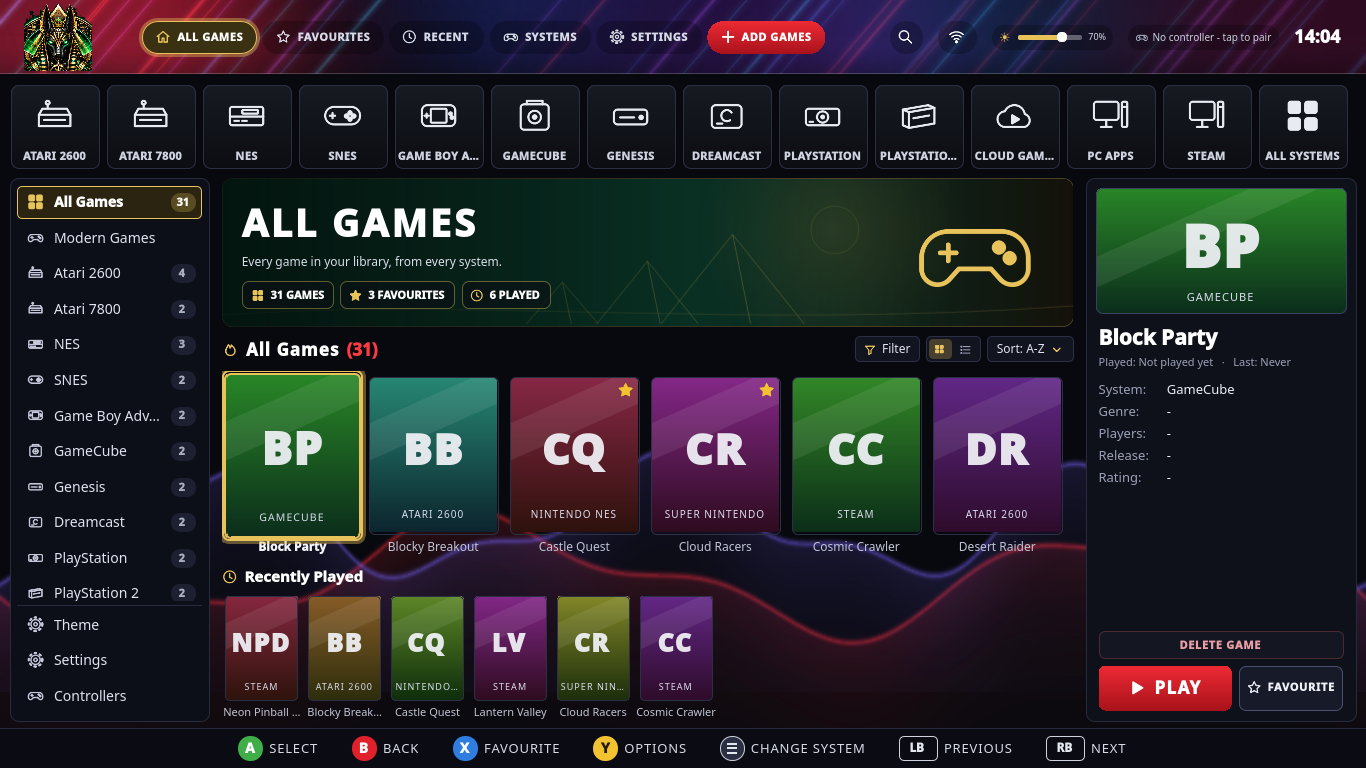
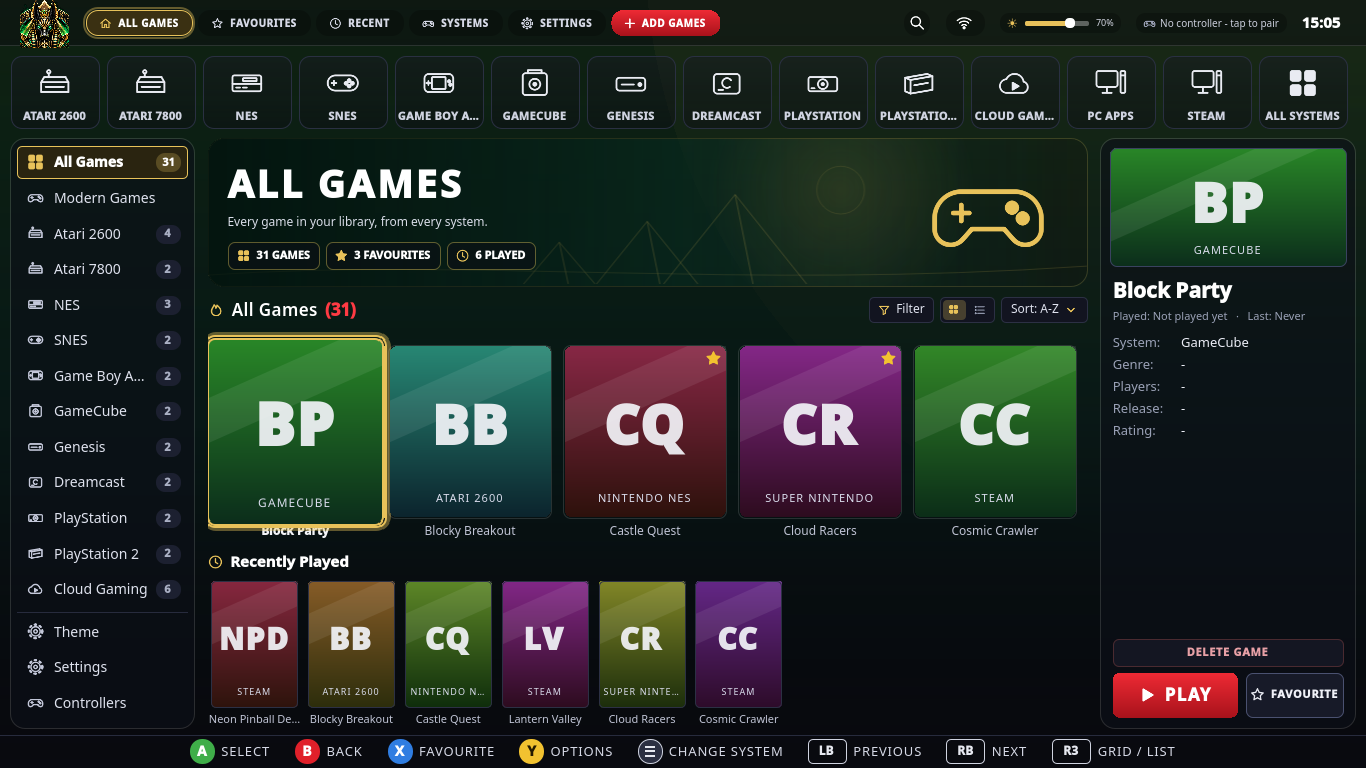
0.6.1: modern home (blurred art backdrop, glass panels, slim top bar, eased focus), Reduce effects (auto on weak GPUs), R3 grid/list, small dismissable pad reminder

diff --git a/tests/test_modern_061.py b/tests/test_modern_061.py
@@ -1,0 +1,77 @@
+"""0.6.1: Reduce effects (auto on weak chips), grid / list by pad (R3 = V), backdrop and glass parts load."""
+from atarilauncher import gpuinfo, gamepad_helper, backend as be, config
+from PySide6.QtCore import Qt
+from tests.test_ui_keys import app, Ui, pump  # noqa: F401  (the shared Qt app fixture)
+
+
+def test_weak_gpu_names():
+    for r in ["llvmpipe (LLVM 15.0.7, 256 bits)", "Mesa Intel(R) HD Graphics 5500 (BDW GT2)", "Mesa Intel(R) HD Graphics (BYT)",
+              "Mesa Intel(R) HD Graphics 505 (APL 3x6)", "SVGA3D; build: RELEASE", "virgl"]:
+        assert gpuinfo.is_weak(r), r
+    for r in ["Mesa Intel(R) UHD Graphics 620 (KBL GT2)", "Mesa Intel(R) HD Graphics 620 (KBL GT2)", "AMD Radeon Vega 8 Graphics",
+              "NVIDIA GeForce GTX 1050/PCIe/SSE2", "Mesa Intel(R) Xe Graphics (TGL GT2)", ""]:
+        assert not gpuinfo.is_weak(r), r
+
+
+def test_env_override(monkeypatch):
+    monkeypatch.setenv("CODEAQUE_WEAK_GPU", "1")
+    assert gpuinfo.weak_gpu()
+    monkeypatch.setenv("CODEAQUE_WEAK_GPU", "0")
+    assert not gpuinfo.weak_gpu()
+
+
+def test_r3_is_grid_list():
+    assert gamepad_helper.BUTTON_MAP["rightstick"] == "view"
+    assert be.ACTION_KEYS["view"] == Qt.Key_V
+
+
+def test_config_round_trip(tmp_path):
+    p = tmp_path / "config.toml"
+    c = config.load_config(p)
+    assert c.reduce_effects == "auto" and c.pad_reminder is True
+    c.reduce_effects = "on"; c.pad_reminder = False
+    config.save_config(c, p)
+    c2 = config.load_config(p)
+    assert c2.reduce_effects == "on" and c2.pad_reminder is False
+
+
+def test_effects_setting_cycles_and_v_toggles_list(app, tmp_path, monkeypatch):
+    monkeypatch.setenv("CODEAQUE_WEAK_GPU", "1")
+    ui = Ui(app, tmp_path, monkeypatch, config_exists=True)
+    try:
+        b = ui.backend
+        assert b.cfg.reduce_effects == "auto" and b.effects is False        # weak chip: effects off by themselves
+        row = next(r for r in b.setupRows() if r["kind"] == "effects")
+        assert row["value"].startswith("AUTO")
+        b.cycleEffects(); assert b.cfg.reduce_effects == "on" and b.effects is False
+        b.cycleEffects(); assert b.cfg.reduce_effects == "off" and b.effects is True
+        assert ui.win.property("listMode") is False
+        ui.key(Qt.Key_V, 100)
+        assert ui.win.property("listMode") is True
+        ui.key(Qt.Key_V, 100)
+        assert ui.win.property("listMode") is False
+    finally:
+        ui.close()
+
+
+def test_backdrop_cross_fades_to_the_game_art(app, tmp_path, monkeypatch):
+    from PySide6.QtGui import QImage, QColor
+    from PySide6.QtQuick import QQuickItem
+    from PySide6.QtCore import QUrl
+    img = QImage(320, 180, QImage.Format_RGB32); img.fill(QColor("#3366aa"))
+    a = tmp_path / "a.png"; img.save(str(a))
+    img.fill(QColor("#aa3333")); b = tmp_path / "b.png"; img.save(str(b))
+    ui = Ui(app, tmp_path, monkeypatch, config_exists=True)
+    try:
+        bd = ui.win.findChild(QQuickItem, "homeBackdrop")
+        assert bd is not None and bd.property("visible")
+        ia, ib = (ui.win.findChild(QQuickItem, n) for n in ("backdropA", "backdropB"))
+        bd.setProperty("source", QUrl.fromLocalFile(str(a)).toString()); pump(app, 900)
+        shown = [i for i in (ia, ib) if i.property("opacity") > 0.99]
+        assert len(shown) == 1 and shown[0].property("progress") == 1.0
+        bd.setProperty("source", QUrl.fromLocalFile(str(b)).toString()); pump(app, 900)
+        shown2 = [i for i in (ia, ib) if i.property("opacity") > 0.99]
+        assert len(shown2) == 1 and shown2[0] is not shown[0]
+        assert not ui.warnings, ui.warnings
+    finally:
+        ui.close()

diff --git a/tests/test_ui_keys.py b/tests/test_ui_keys.py
@@ -242,30 +242,39 @@ def test_mouse_click_rows_and_buttons_everywhere(app, tmp_path, monkeypatch):
         ui.close()
 
 
-def test_home_banner_remove_and_repair(app, tmp_path, monkeypatch):
+def test_home_pad_toast_small_dismissable_and_repair_in_controllers(app, tmp_path, monkeypatch):
+    """0.6.1: a slim note only for a pad that WAS connected and dropped; X / keyboard / mouse hide it; Settings toggle;
+    Remove and re-pair stays in Settings > Controllers."""
     from PySide6.QtQuick import QQuickItem
     ui = Ui(app, tmp_path, monkeypatch, config_exists=True)
     try:
         called = []
         monkeypatch.setattr(ui.backend, "_bt_activate", lambda rid: called.append(rid) or "refresh")
-        ui.backend._on_pads_waiting([{"mac": "AA:BB:CC:DD:EE:01", "name": "Wireless Controller"}])
-        pump(app, 200)
         ui.win.resize(1366, 768)
-        pump(app, 300)
+        pad = {"mac": "AA:BB:CC:DD:EE:01", "name": "Wireless Controller"}
+        ui.backend._on_pads_waiting([pad])           # paired but never seen connected: no note
+        pump(app, 200)
         ban = ui.win.findChild(QQuickItem, "padWaitBanner")
-        import os
-        if os.environ.get("SHOT"):
-            ui.win.grabWindow().save(os.environ["SHOT"])
-        assert ban.property("x") >= 0 and ban.property("x") + ban.property("width") <= 1366
-        assert ui.mode == "library" and ban is not None and ban.property("visible")
+        assert ban is not None and not ban.property("visible")
+        ui.backend._on_pads_waiting([])
+        ui.backend._pads_was_connected.add(pad["mac"])  # it was connected ... and drops
+        ui.backend._on_pads_waiting([pad])
+        pump(app, 300)
+        assert ui.mode == "library" and ban.property("visible")
+        assert ban.property("height") <= 50 and ban.property("x") + ban.property("width") <= 1366
+        monkeypatch.setattr(ui.backend, "keyFromPad", lambda: True)
+        ui.key(Qt.Key_Right, 100)                    # a pad press keeps it
+        assert ban.property("visible")
+        monkeypatch.setattr(ui.backend, "keyFromPad", lambda: False)
+        ui.key(Qt.Key_Left, 100)                     # the keyboard hides it
+        assert not ban.property("visible")
         rows = ui.backend._controllers_rows()
         assert any(r.get("id") == "btrepair:AA:BB:CC:DD:EE:01" for r in rows)
-        assert any("press the PS button" in r.get("title", "").lower() + r.get("detail", "").lower() + str(r.get("text", "")).lower()
-                   or "PS button" in str(r) for r in rows)
-        ui.key(Qt.Key_R, 200)
-        assert called == ["btrepair:AA:BB:CC:DD:EE:01"]
-        ui.backend._on_pads_waiting([])
-        pump(app, 100)
-        assert not ban.property("visible")
+        # the Settings toggle is remembered
+        assert any(r["kind"] == "padreminder" and r["value"] == "ON" for r in ui.backend.setupRows())
+        ui.backend.togglePadReminder()
+        assert ui.backend.cfg.pad_reminder is False
+        from atarilauncher import config as _c
+        assert _c.load_config(ui.backend.cfg.path).pad_reminder is False
     finally:
         ui.close()

diff --git a/tests/test_polish.py b/tests/test_polish.py
@@ -223,7 +223,9 @@ def test_waves_background_pauses_when_animations_are_reduced_or_a_game_runs(app,
     try:
         from PySide6.QtQuick import QQuickItem
         wave_item = next(i for i in ui.win.findChildren(QQuickItem) if i.metaObject().className().startswith("WaveBackground"))
-        assert wave_item.property("active") is True
+        # 0.6.1: on the home screen the blurred game-art backdrop replaces the waves, so they do not draw there at all
+        bd = ui.win.findChild(QQuickItem, "homeBackdrop")
+        assert bd.property("visible") is True and wave_item.property("active") is False
         ui.backend.toggleAnimations()
         pump(app, 50)
         assert ui.backend.animations is False

diff --git a/atarilauncher/__init__.py b/atarilauncher/__init__.py
@@ -1,3 +1,3 @@
 """CodeAque - a console-style game launcher for Linux (personal project, unaffiliated with any trademark owner)."""
 
-__version__ = "0.6.0"
+__version__ = "0.6.1"

diff --git a/README.md b/README.md
@@ -31,6 +31,24 @@ Pick a game from a wall of big covers, press **A** (or **Enter**), and it starts
 
 (The screenshots use made-up demo games. With no games yet you get a friendly empty screen: `docs/screenshot-empty.png`.)
 
+## What's new in 0.6.1
+
+**Updating:** in-app update (Settings) as usual.
+
+* **Sleeker home screen.** The highlighted game's own picture fills the whole screen behind the menus, blurred and darkened. It fades across when you move and drifts a little sideways. Games without a picture get a soft emerald and gold glow in the game's colour.
+* **See-through "glass" panels** with softer rounded corners, fine light edges and soft shadows. The top bar is much slimmer, the hint bar is thinner, the covers are bigger and there is more space around everything.
+* **Smooth movement:** the focused cover and system tile grow a little and glow, with eased animations.
+* **Settings > Reduce effects** (AUTO / ON / OFF) turns off the blur, the shadows and the big picture. AUTO switches them off by itself on weak graphics chips (software drawing, older Intel HD, Atom and similar). The old *Reduce animations* setting still stops everything moving.
+* **Grid / list with the pad:** press the right stick (R3), or V on the keyboard. It is shown in the hint bar.
+* **Pad reminder is now a small note** at the top right, with an X to close it. It shows only when a pad that was connected earlier drops. It hides as soon as you use the keyboard or the mouse. *Settings > Show pad reminder* turns it off, and the choice is remembered. Remove and re-pair is in Settings > Controllers.
+
+![Home 1920x1080](docs/screenshot-home-1920x1080.png)
+
+### Not tested
+- Not looked at on the Dell itself, so the speed (60 fps) and the AUTO detection are not checked on real hardware. Screenshots here are drawn by the computer's processor, not a graphics chip.
+- The demo games have no pictures, so the screenshots show the glow rather than blurred game art. The fade between two pictures is checked by an automatic test.
+- The pad reminder only knows pads that were connected while CodeAque was running. A pad that dropped before CodeAque started shows no note; Settings > Controllers still lists it.
+
 ## What's new in 0.6.0
 
 **Updating:** in-app update (Settings) as usual.
